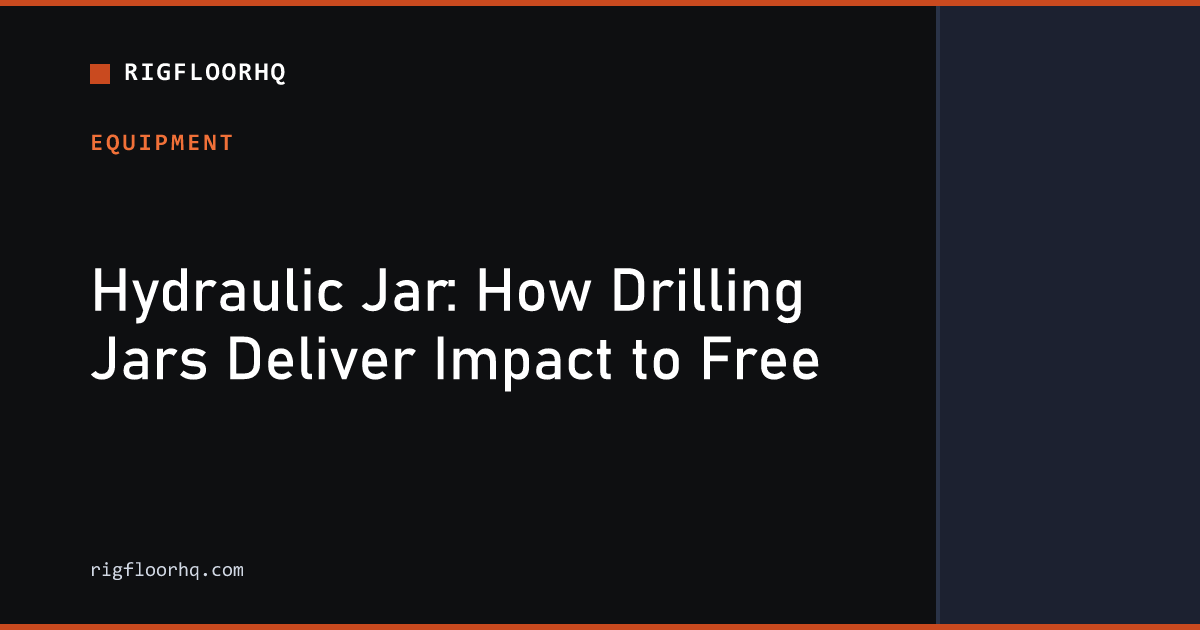
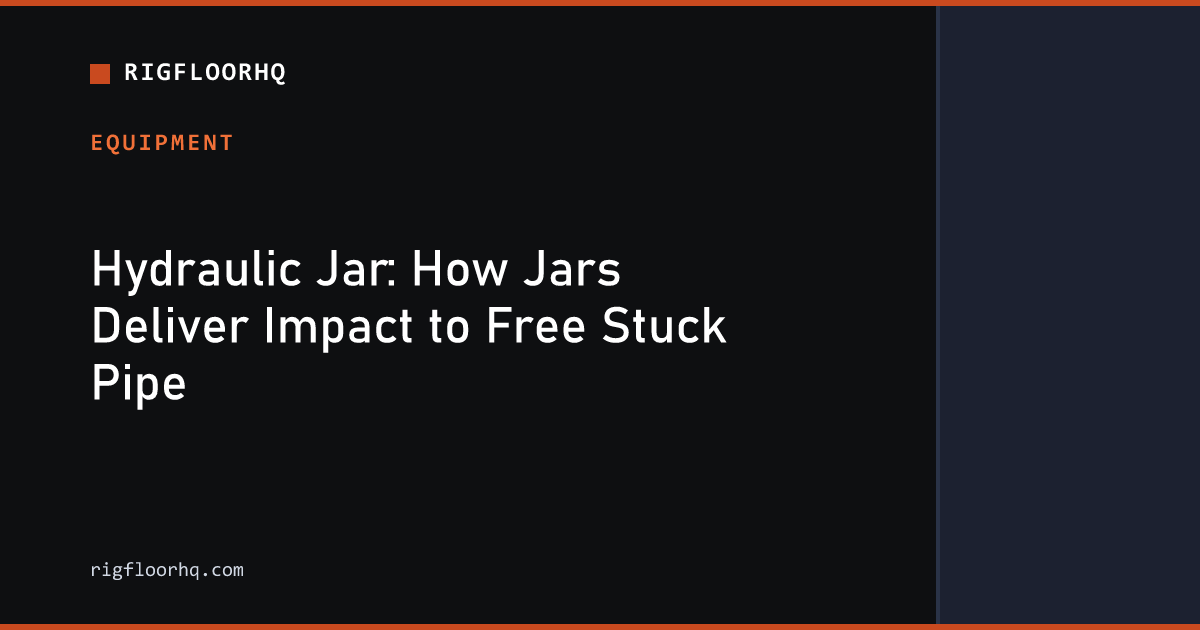
Add OG images for legal/about pages, fix two truncated titles, trim oversized ES meta descriptions, add sitemap hreflang alternates
Generates real og:image cards for about/privacy/terms/cookies/links (EN+ES)
instead of falling back to the shared default. Completes two equipment page
titles that were cut off mid-phrase in source (blast-joint, hydraulic-jar),
surfaced via a truncated-looking entry in llms.txt. Trims 5 ES meta
descriptions over 160 characters. Adds xhtml:link hreflang alternates to the
sitemap, matching each page's own <head> alternate tags, verified present on
all 288 URLs with zero gaps.

Changed region(s): [[0.0617, 0.3921, 0.6783, 0.6635]]

diff --git a/src/content/blog-es/oil-rig-boots.md b/src/content/blog-es/oil-rig-boots.md
@@ -1,6 +1,6 @@
 ---
 title: "Botas para Taladros Petroleros: Cómo Elegir el Par Correcto"
-description: "Lo que el trabajo en el taladro exige de una bota de seguridad: etiquetas ASTM F2413 y EN ISO 20345, punta de acero vs. compuesta, protectores metatarsianos, botas sin cordones vs. con cordones, y cuándo reemplazarlas."
+description: "Lo que el trabajo en el taladro exige de una bota de seguridad: etiquetas ASTM F2413, punta de acero vs. compuesta, y cuándo reemplazarlas."
 publishDate: "2026-10-02"
 author: "RigFloorHQ Team"
 category: "Seguridad"

diff --git a/src/content/blog-es/hydrostatic-pressure-0052-constant.md b/src/content/blog-es/hydrostatic-pressure-0052-constant.md
@@ -1,6 +1,6 @@
 ---
 title: "La Constante 0.052: Presión Hidrostática Explicada"
-description: "De dónde viene el 0.052 en P = 0.052 × MW × TVD, por qué es un factor de conversión de unidades fijo y no una propiedad del lodo, y qué es lo que más se confunde al respecto."
+description: "De dónde viene el 0.052 en P = 0.052 × MW × TVD, por qué es un factor de conversión fijo y no una propiedad del lodo, y qué más se confunde al respecto."
 publishDate: "2026-10-01"
 author: "RigFloorHQ Team"
 category: "Control de Pozos"
